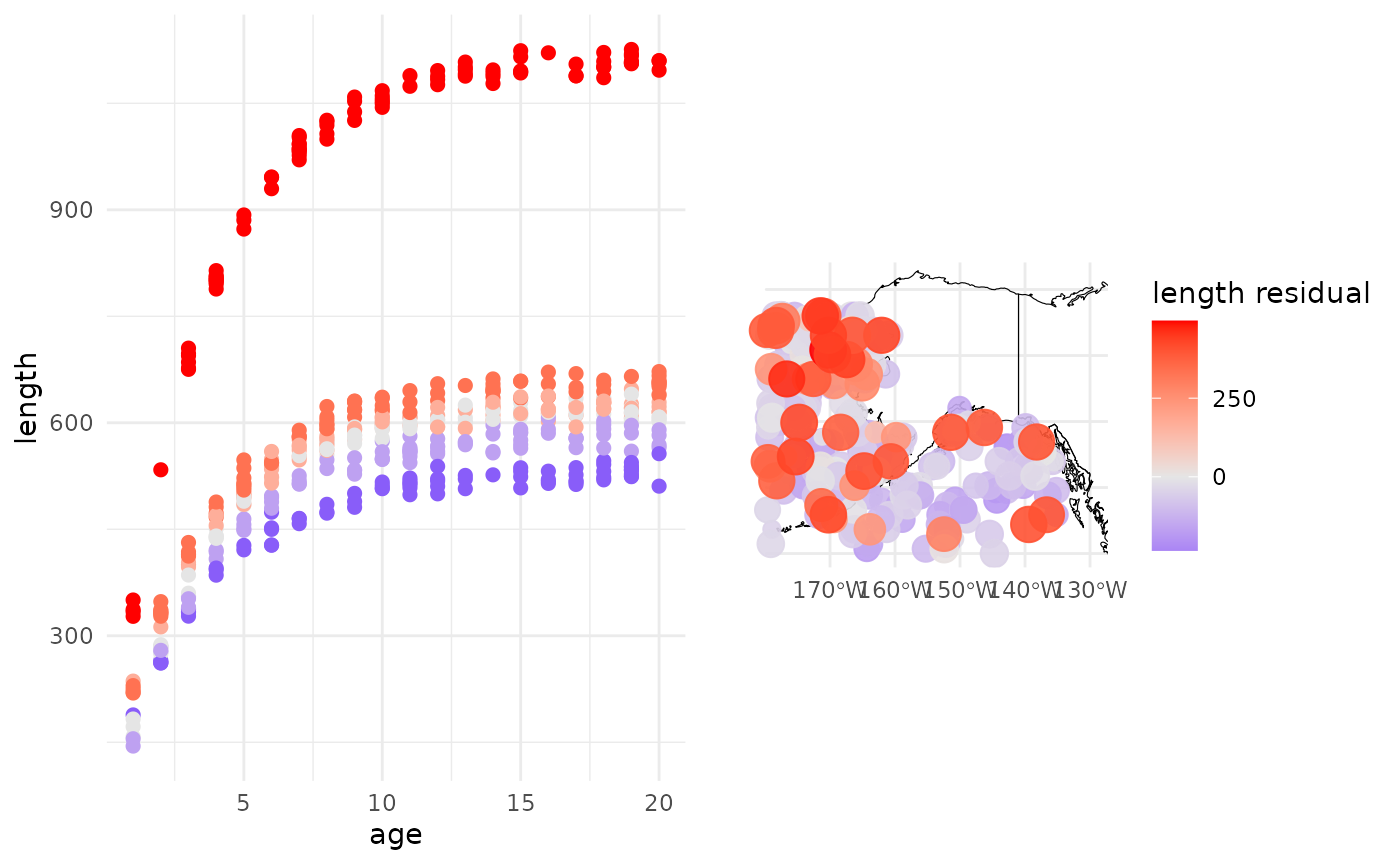
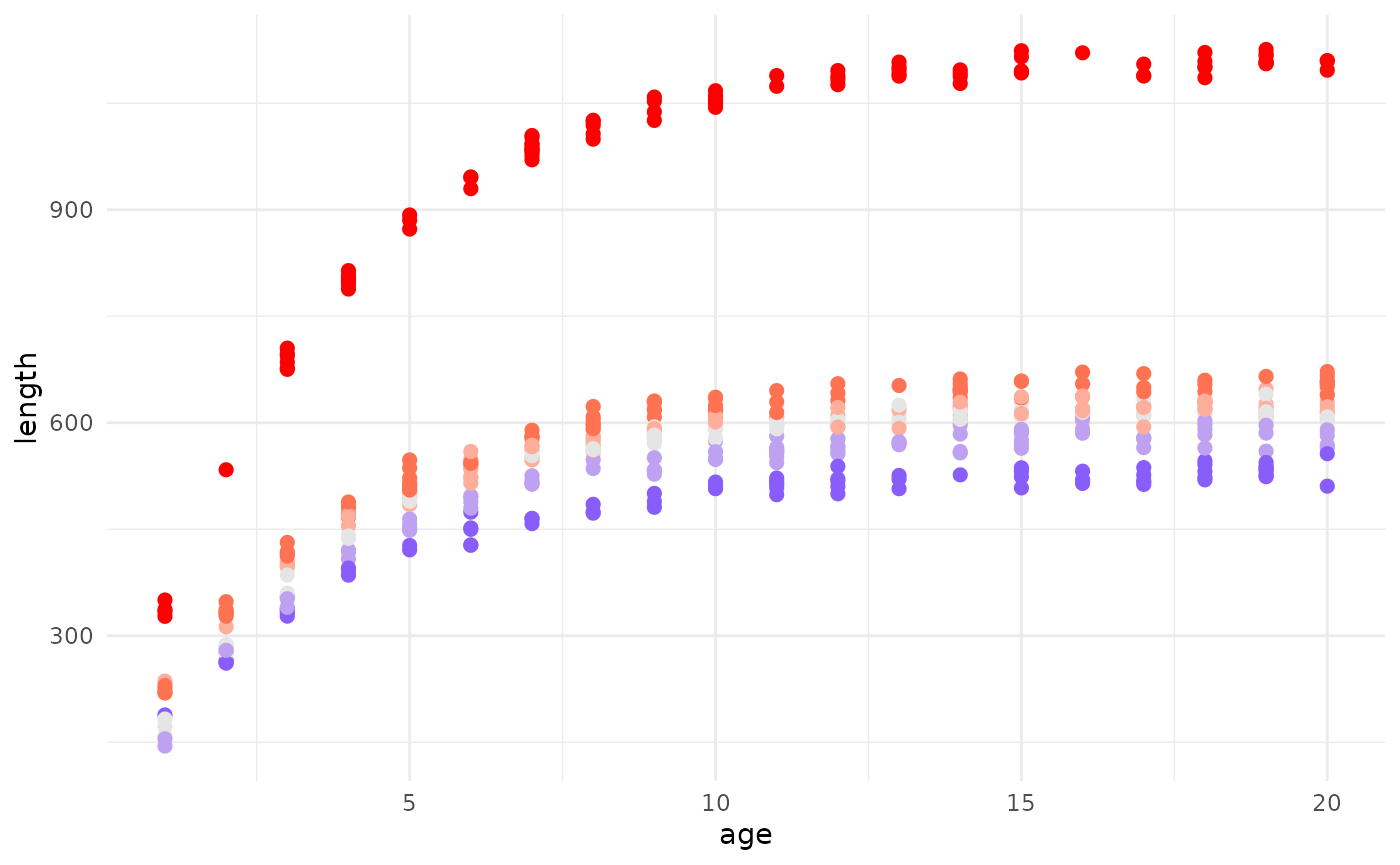
Deploying to gh-pages from @ afsc-assessments/growthbreaks@b3a3c1f59533b2529ca773897c045c07ccdd86e4 🚀

diff --git a/articles/simulated_example.html b/articles/simulated_example.html
@@ -69,7 +69,7 @@
 </h2>
 <p>A spatial process gives rise to heterogeneity in fish length-at-age
 with a predominant north-south cline, as shown in the figure below:</p>
-<p><img src="simulated_example_files/figure-html/unnamed-chunk-3-1.png" width="700"></p>
+<p><img src="simulated_example_files/figure-html/unnamed-chunk-3-1.png" width="700"><img src="simulated_example_files/figure-html/unnamed-chunk-3-2.png" width="700"></p>
 </div>
   </main>
 </div>
